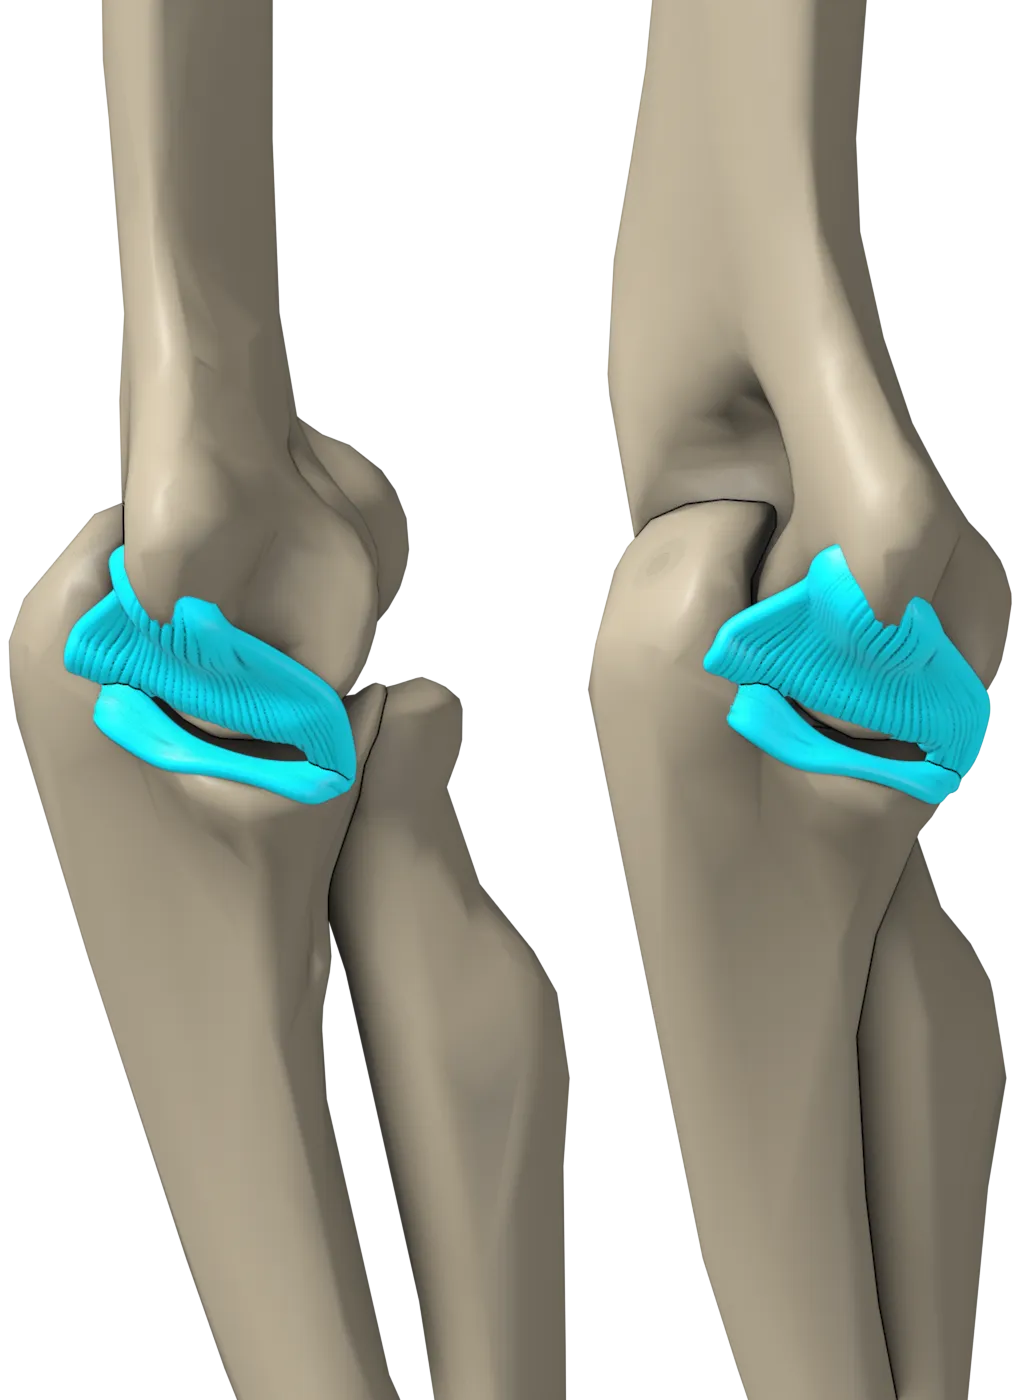
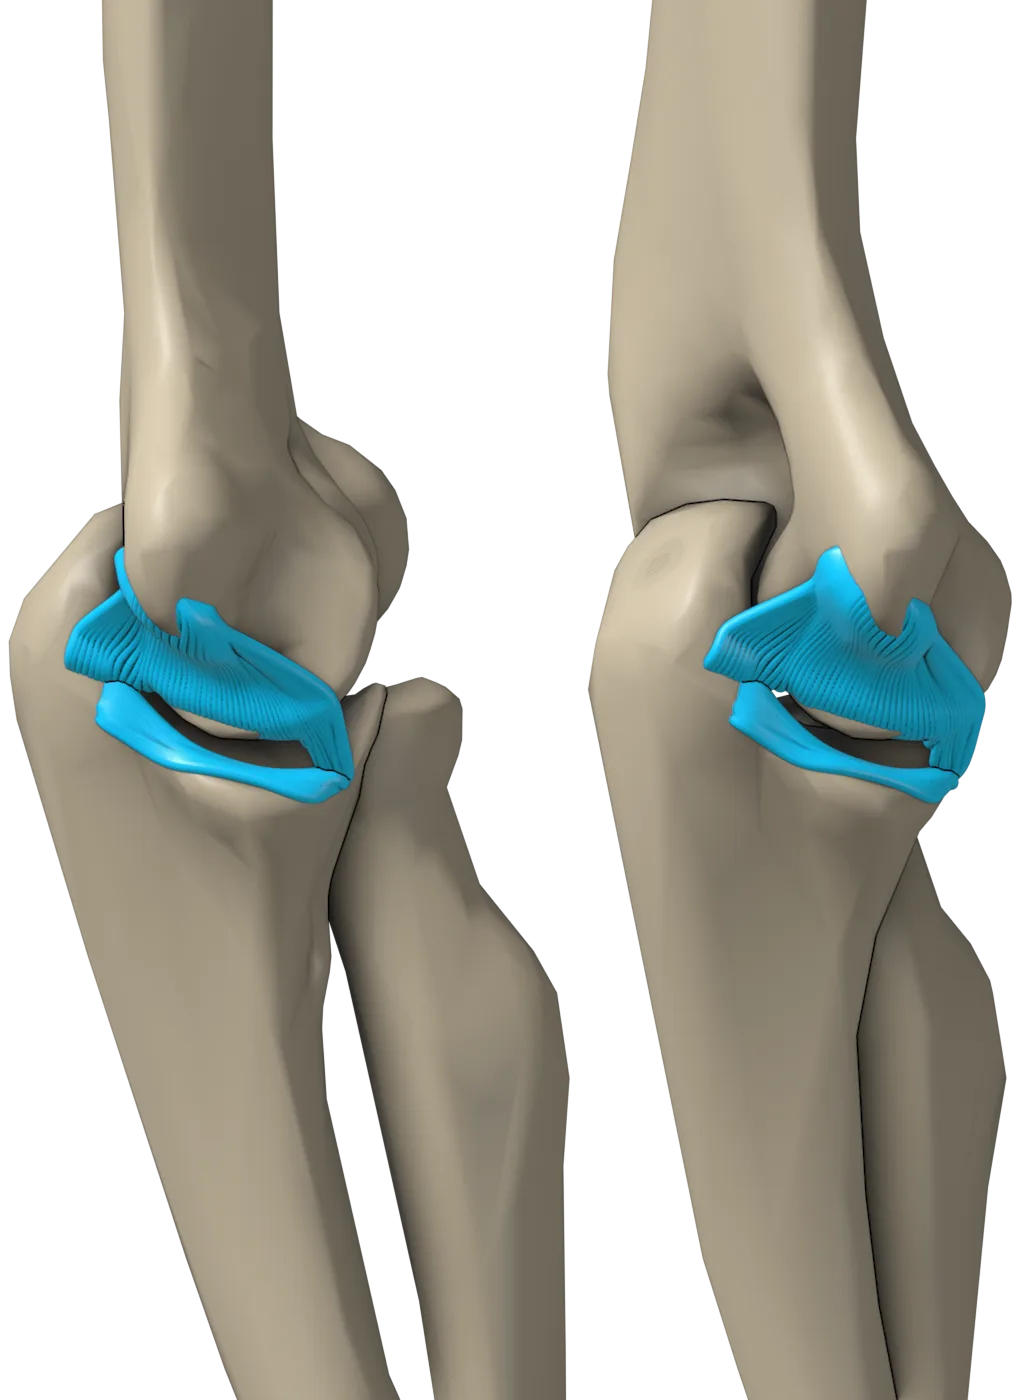
UCL: one fibre per ridge of grain, shaded with ambient occlusion like the bone (--ao)

Changed region(s): [[0.668, 0.3686, 0.9716, 0.5836], [0.0607, 0.3686, 0.3643, 0.5836]]

diff --git a/src/scripts/blender/renderMusclePanels.py b/src/scripts/blender/renderMusclePanels.py
@@ -59,6 +59,10 @@ ap.add_argument("--context", default="",
                 help="comma-separated Blender object names drawn in muscle red beside the subject: "
                      "soft tissue that is part of what the picture shows without being its subject, "
                      "such as the three tendons that bound the anatomical snuffbox")
+ap.add_argument("--ao", action="store_true",
+                help="shade the highlighted structure the way boneLook shades bone: ambient occlusion "
+                     "darkens its hollows, so the grooves between a ligament's fibres read as the bone's "
+                     "crevices do (owner, 20 Oct 2026: 'the same level of realism as the bones')")
 ap.add_argument("--regions", default="",
                 help="a rules file (panel-regions.rules.json): for the ids it names, the highlight is "
                      "a region grown on the parent bone by landmarkRegions.select_faces, and the "
@@ -176,6 +180,22 @@ if APP_HIGHLIGHT:
         _hb = highlight_mat.node_tree.nodes["Principled BSDF"]
         _hb.inputs["Emission Color"].default_value = (0.0, 0.85, 1.0, 1)
         _hb.inputs["Emission Strength"].default_value = 0.35
+    except KeyError:
+        pass
+if a.ao:
+    _nt = highlight_mat.node_tree
+    _b = _nt.nodes["Principled BSDF"]
+    _ao = _nt.nodes.new("ShaderNodeAmbientOcclusion")
+    _ao.samples = 16
+    _ao.inputs["Distance"].default_value = 0.004
+    _ao.inputs["Color"].default_value = highlight_rgb
+    _g = _nt.nodes.new("ShaderNodeGamma")
+    _g.inputs["Gamma"].default_value = 2.2
+    _nt.links.new(_ao.outputs["Color"], _g.inputs["Color"])
+    _nt.links.new(_g.outputs["Color"], _b.inputs["Base Color"])
+    _b.inputs["Roughness"].default_value = 0.42
+    try:
+        _b.inputs["Emission Strength"].default_value = 0.12 if APP_HIGHLIGHT else 0.0
     except KeyError:
         pass
 bone_mat = (boneLook.bone_material("panel_bone") if STUDIO
